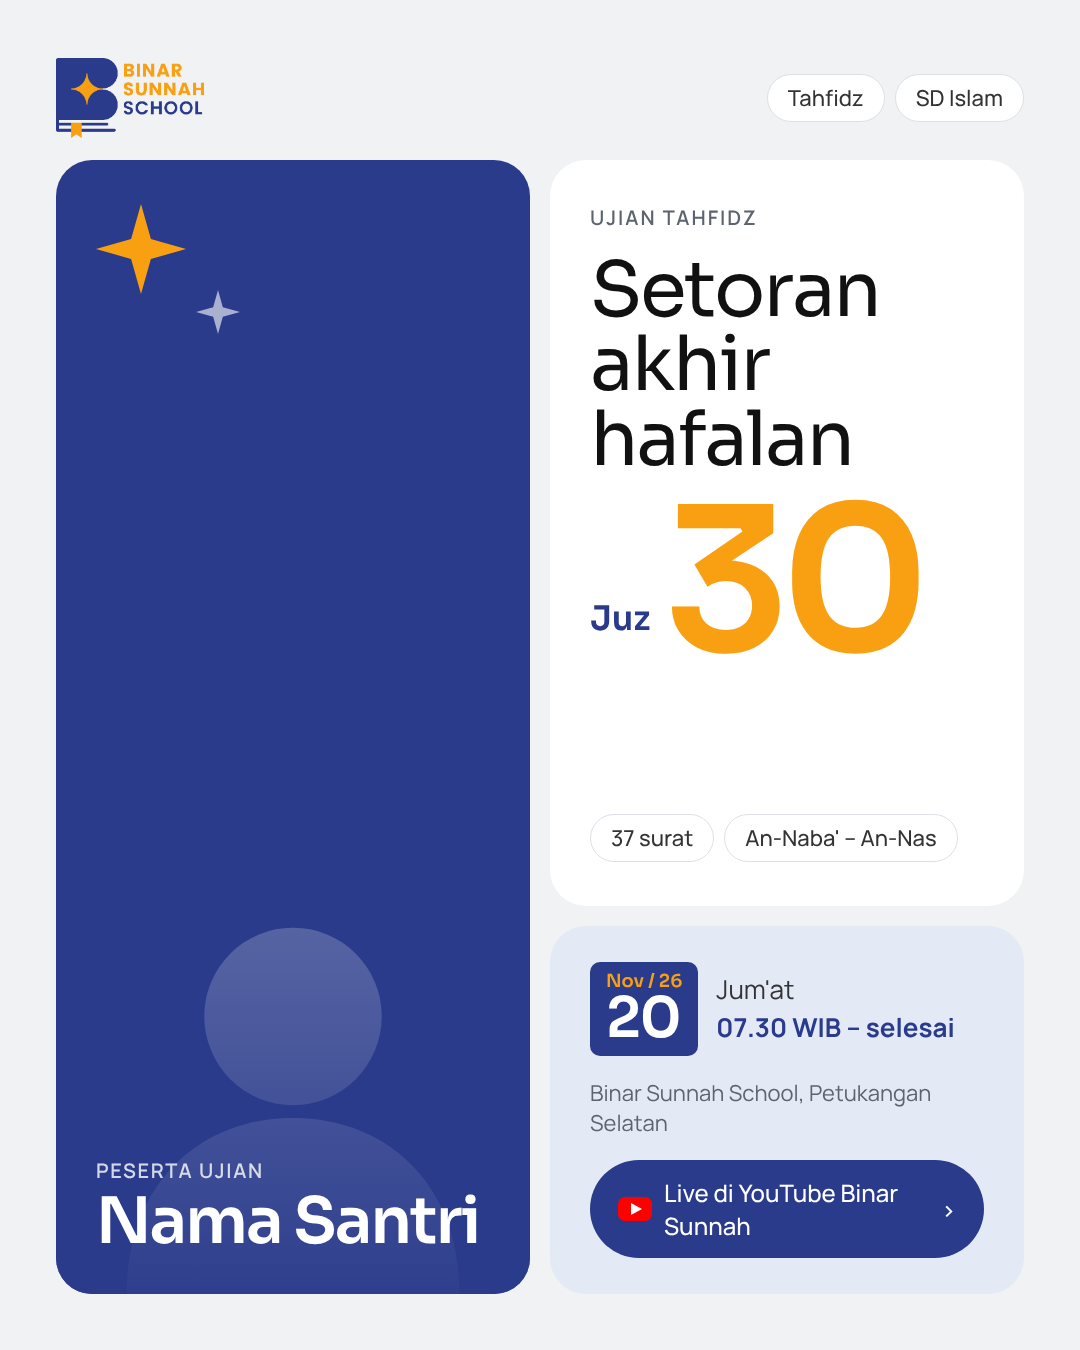
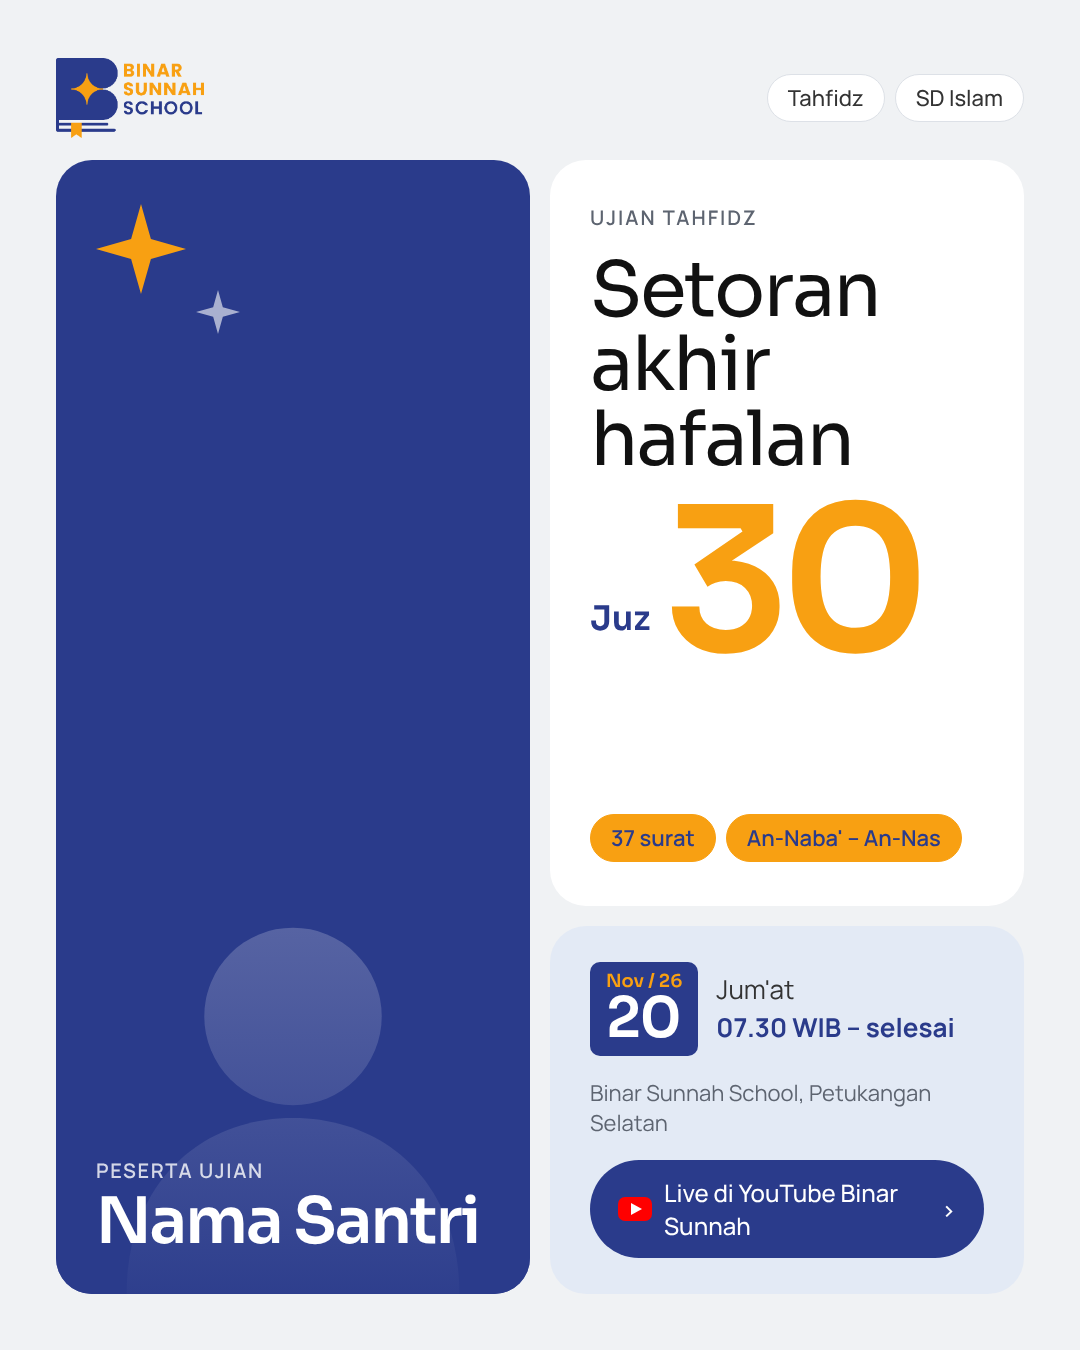
Highlight surah tags in amber on Poster Ujian Tahfidz
Add a highlight tag variant (amber background, navy text) to the
design system and use it for the juz and surah pills.

Claude-Session: https://claude.ai/code/session_015xMm4KmPFL7gFrjSZTCvzA

Changed region(s): [[0.55, 0.5911, 0.8861, 0.6533]]

diff --git a/docs/binar-sunnah-school/templates/Poster Ujian Tahfidz/Poster Ujian Tahfidz.html b/docs/binar-sunnah-school/templates/Poster Ujian Tahfidz/Poster Ujian Tahfidz.html
@@ -61,6 +61,8 @@ h1{font-family:var(--font-display);font-weight:400;font-size:76px;line-height:.9
 .juz span{font-family:var(--font-display);font-size:34px;color:var(--binar-navy);font-weight:600;padding-bottom:22px}
 .juz b{font-family:var(--font-display);font-weight:600;font-size:200px;line-height:.8;letter-spacing:-.05em;color:var(--binar-amber)}
 .info .tags{margin-top:auto}
+/* Tag highlight (juz & nama surat): amber + teks navy, bukan teks hitam */
+.info .tag{background:var(--binar-amber);border-color:var(--binar-amber);color:var(--binar-navy);font-weight:600}
 
 /* Kartu jadwal: biru muda, BUKAN hitam/charcoal */
 .schedule{background:var(--binar-blue-50);border-radius:var(--radius-card);padding:36px var(--pad);display:flex;flex-direction:column;gap:22px;color:var(--text)}

diff --git a/docs/binar-sunnah-school/Design System Binar.md b/docs/binar-sunnah-school/Design System Binar.md
@@ -200,6 +200,16 @@ Tema juga memuat Roboto, Roboto Slab, Inter, dan Cardo yang tidak terlihat dipak
 Pola label: kata kerja ajakan, misalnya "Temukan program kami", "Unduh PDF", "Lihat lebih banyak", "Berlangganan".
 
 ### 6.2 Tag / chip
+
+**Dua varian:**
+
+| Varian | Spesifikasi | Pemakaian |
+|---|---|---|
+| **Netral** | Pill putih, border `--line` 1.5px, teks `--text` Manrope 500 | Kategori, label umum (misalnya "Tahfidz", "SD Islam") |
+| **Highlight** | Pill `--binar-amber`, teks `--binar-navy` Manrope 600 | Data yang ingin ditonjolkan: target juz, jumlah surat, nama surat |
+
+Di atas amber, teks selalu **navy**, tidak pernah hitam (aturan 3.4). Kontrasnya sekitar 4.8:1, aman untuk teks 22px ke atas di poster.
+
 Pill outline tipis, teks 11–12px. Isinya **target konkret** program, misalnya `100 Doa Harian` · `50 Hadits` · `Target Juz 30` · `25 Hadits` · `Target 15 Surat Pendek`. Di kartu event, tag dipakai untuk kategori, misalnya `akhlak` · `tarbiyah` · `kompetisi`.
 
 ### 6.3 Statistik
@@ -304,7 +314,7 @@ Kanvas feed: **1080×1350 (4:5)**. Story: 1080×1920.
 **Poster Ujian Tahfidz** adalah layout bento dengan empat area:
 - **Header:** logo sejajar tepi kiri kartu, tag sejajar tepi kanan kartu.
 - **Kartu foto (kiri):** navy dengan foto santri di tengah dan gradien navy di bawah nama.
-- **Kartu info (kanan atas):** putih, berisi judul dan "Juz **30**". Angkanya Sora 600 200px, **solid amber**.
+- **Kartu info (kanan atas):** putih, berisi judul dan "Juz **30**". Angkanya Sora 600 200px, **solid amber**. Jumlah dan nama surat memakai **tag highlight** (amber, teks navy).
 - **Kartu jadwal (kanan bawah):** `--binar-blue-50`, berisi badge tanggal navy dan tombol pill navy.
 
 Aturan template ini:

diff --git a/docs/binar-sunnah-school/templates/Poster Ujian Tahfidz/README.md b/docs/binar-sunnah-school/templates/Poster Ujian Tahfidz/README.md
@@ -33,11 +33,12 @@ Template Instagram feed **1080×1350 (4:5)** untuk pengumuman ujian tahfidz sant
 |---|---|---|
 | Header | Logo sejajar tepi kiri kartu, tag sejajar tepi kanan kartu | `--margin: 56px` |
 | Kartu foto | Latar navy, 2 bintang, foto di tengah, gradien navy di bawah, nama | `--binar-navy`, `--radius-card: 36px` |
-| Kartu info | Eyebrow, judul Sora 400, "Juz" + angka besar **solid amber**, tag | `--surface`, `--binar-amber` |
+| Kartu info | Eyebrow, judul Sora 400, "Juz" + angka besar **solid amber**, tag highlight (jumlah dan nama surat) amber dengan teks navy | `--surface`, `--binar-amber` |
 | Kartu jadwal | Badge tanggal navy, hari dan jam, tempat, tombol pill navy | `--binar-blue-50` |
 
 ## Aturan
 - Angka juz selalu **solid amber**, jangan dibuat outline.
+- Tag di kartu info (jumlah surat, rentang surat) adalah **tag highlight**: latar amber, teks **navy** Manrope 600. Jangan pakai teks hitam di atas amber. Tag di header tetap netral (putih, border abu).
 - Kartu jadwal memakai **biru muda `--binar-blue-50`**. **Jangan pakai hitam atau charcoal bersama amber.**
 - Logo dan tag sejajar dengan **tepi kartu**, bukan dengan isi kartu.
 - Tidak ada lingkaran atau bentuk dekoratif di belakang foto. Cukup latar navy dan bintang.
